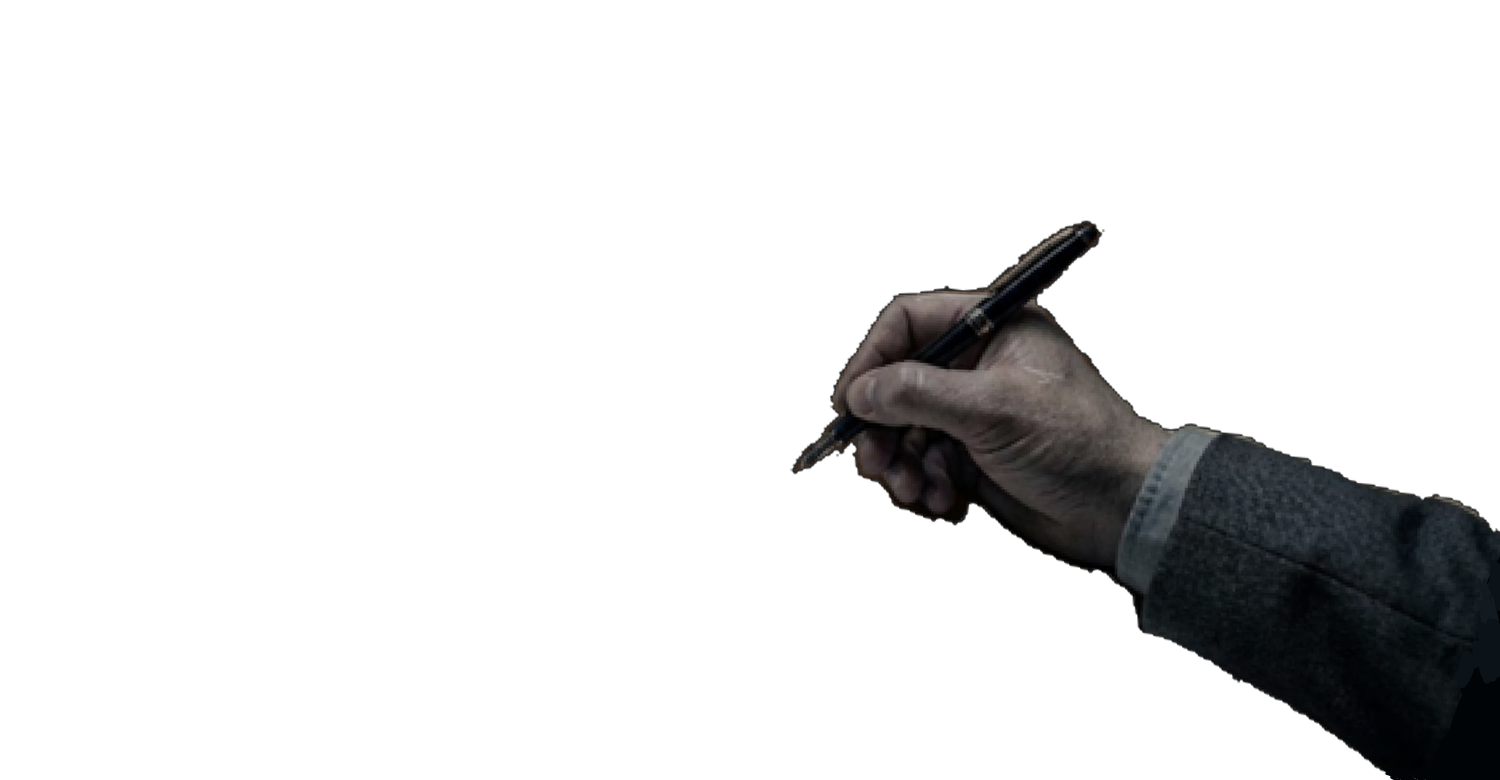
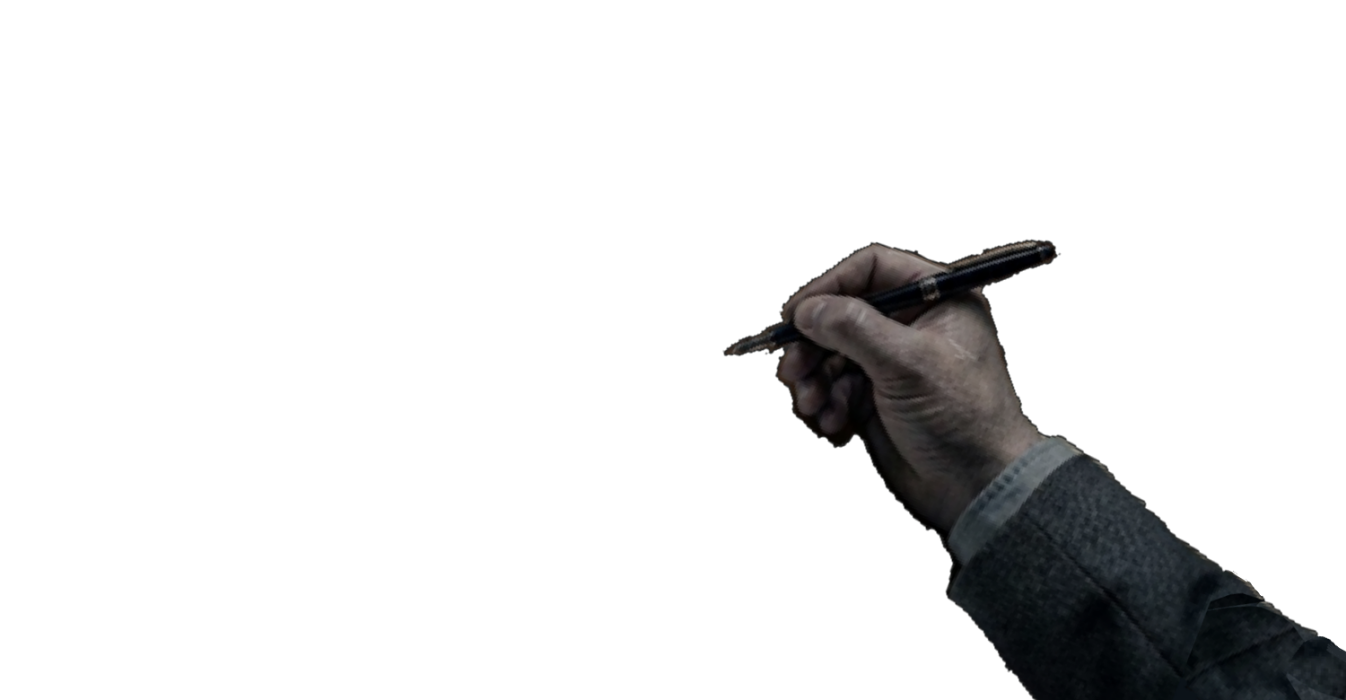
refactor: nuevas imagenes garabato y mano + mejora ux de transicion mano

Changed region(s): [[0.5305, 0.27, 1.0, 1.0]]

diff --git a/src/main/java/vista/juego/PanelTransicionMano.java b/src/main/java/vista/juego/PanelTransicionMano.java
@@ -11,9 +11,9 @@ import java.awt.image.BufferedImage;
 
 public class PanelTransicionMano extends JPanel {
 
-    private static final int DURACION_ENTRADA_MS = 350;
-    private static final int DURACION_GARABATO_MS = 450;
-    private static final int DURACION_SALIDA_MS = 350;
+    private static final int DURACION_ENTRADA_MS = 800;
+    private static final int DURACION_GARABATO_MS = 1500;
+    private static final int DURACION_SALIDA_MS = 800;
     private static final int INTERVALO_TICK_MS = 16;
 
     private enum Fase { INACTIVO, ENTRANDO, GARABATO, SALIENDO }
@@ -31,24 +31,27 @@ public class PanelTransicionMano extends JPanel {
 
     public PanelTransicionMano() {
         setOpaque(false);
+
         CargadorImagen cargador = CargadorImagen.getInstancia();
         this.imagenMano = cargador.cargar("/imagenes/transicion/mano.png");
         this.imagenGarabato = cargador.cargar("/imagenes/transicion/garabato.png");
     }
 
     public void iniciar(Runnable onPuntoMedio, Runnable onTerminado) {
-        if (fase != Fase.INACTIVO) return;
+        if (fase != Fase.INACTIVO) {
+            return;
+        }
 
         this.onPuntoMedio = onPuntoMedio;
         this.onTerminado = onTerminado;
         this.puntoMedioDisparado = false;
-        this.fase = Fase.ENTRANDO;
-        this.progresoMs = 0f;
+
+        fase = Fase.ENTRANDO;
+        progresoMs = 0f;
 
         setVisible(true);
 
         timer = new Timer(INTERVALO_TICK_MS, e -> tick());
-        timer.setRepeats(true);
         timer.start();
     }
 
@@ -63,18 +66,21 @@ public class PanelTransicionMano extends JPanel {
                     dispararPuntoMedio();
                 }
                 break;
+
             case GARABATO:
                 if (progresoMs >= DURACION_GARABATO_MS) {
                     fase = Fase.SALIENDO;
                     progresoMs = 0f;
                 }
                 break;
+
             case SALIENDO:
                 if (progresoMs >= DURACION_SALIDA_MS) {
                     finalizar();
                     return;
                 }
                 break;
+
             case INACTIVO:
                 return;
         }
@@ -85,17 +91,26 @@ public class PanelTransicionMano extends JPanel {
     private void dispararPuntoMedio() {
         if (!puntoMedioDisparado) {
             puntoMedioDisparado = true;
-            if (onPuntoMedio != null) onPuntoMedio.run();
+            if (onPuntoMedio != null) {
+                onPuntoMedio.run();
+            }
         }
     }
 
     private void finalizar() {
-        timer.stop();
+        if (timer != null) {
+            timer.stop();
+        }
+
         fase = Fase.INACTIVO;
         setVisible(false);
+
         Runnable callback = onTerminado;
         onTerminado = null;
-        if (callback != null) callback.run();
+
+        if (callback != null) {
+            callback.run();
+        }
     }
 
     public boolean estaActivo() {
@@ -105,34 +120,49 @@ public class PanelTransicionMano extends JPanel {
     @Override
     protected void paintComponent(Graphics g) {
         super.paintComponent(g);
-        if (fase == Fase.INACTIVO) return;
+
+        if (fase == Fase.INACTIVO) {
+            return;
+        }
 
         Graphics2D g2d = (Graphics2D) g.create();
-        g2d.setRenderingHint(RenderingHints.KEY_INTERPOLATION, RenderingHints.VALUE_INTERPOLATION_BILINEAR);
-        g2d.setRenderingHint(RenderingHints.KEY_ANTIALIASING, RenderingHints.VALUE_ANTIALIAS_ON);
+        g2d.setRenderingHint(RenderingHints.KEY_INTERPOLATION,
+                RenderingHints.VALUE_INTERPOLATION_BILINEAR);
+        g2d.setRenderingHint(RenderingHints.KEY_ANTIALIASING,
+                RenderingHints.VALUE_ANTIALIAS_ON);
 
         int ancho = getWidth();
         int alto = getHeight();
+
         float t;
-        int manoX;
+        int manoY;
 
         switch (fase) {
+
             case ENTRANDO:
+                // Desde abajo hasta su posición final.
                 t = easeOut(progresoMs / DURACION_ENTRADA_MS);
-                manoX = (int) (ancho - t * ancho);
-                dibujarMano(g2d, manoX, ancho, alto);
+                manoY = (int) (alto - t * alto);
+
+                dibujarMano(g2d, 0, manoY, ancho, alto);
                 break;
+
             case GARABATO:
-                dibujarMano(g2d, 0, ancho, alto);
                 if (imagenGarabato != null) {
                     g2d.drawImage(imagenGarabato, 0, 0, ancho, alto, null);
                 }
+
+                dibujarMano(g2d, 0, 0, ancho, alto);
                 break;
+
             case SALIENDO:
+                // Baja hasta desaparecer.
                 t = easeIn(progresoMs / DURACION_SALIDA_MS);
-                manoX = (int) (t * ancho);
-                dibujarMano(g2d, manoX, ancho, alto);
+                manoY = (int) (t * alto);
+
+                dibujarMano(g2d, 0, manoY, ancho, alto);
                 break;
+
             case INACTIVO:
                 break;
         }
@@ -140,12 +170,17 @@ public class PanelTransicionMano extends JPanel {
         g2d.dispose();
     }
 
-    private void dibujarMano(Graphics2D g2d, int x, int ancho, int alto) {
+    private void dibujarMano(Graphics2D g2d, int x, int y, int ancho, int alto) {
         if (imagenMano != null) {
-            g2d.drawImage(imagenMano, x, 0, ancho, alto, null);
+            g2d.drawImage(imagenMano, x, y, ancho, alto, null);
         }
     }
 
-    private float easeOut(float t) { return 1 - (1 - t) * (1 - t); }
-    private float easeIn(float t) { return t * t; }
+    private float easeOut(float t) {
+        return 1f - (1f - t) * (1f - t);
+    }
+
+    private float easeIn(float t) {
+        return t * t;
+    }
 }

diff --git a/src/main/java/MainTest.java b/src/main/java/MainTest.java
@@ -32,18 +32,18 @@ public class MainTest {
             // =========================
             // CUENTA ATRÁS
             // =========================
-            mainVista.getOverlayCuentaAtras().iniciar(() ->
-              System.out.println("Cuenta atrás terminada")
-            );
+            //mainVista.getOverlayCuentaAtras().iniciar(() ->
+             // System.out.println("Cuenta atrás terminada")
+            //);
 
             // =========================
             // TRANSICIÓN MANO
             // =========================
-            // var panelTransicion = mainVista.getPaginaJuego().getPanelTransicion();
-            // panelTransicion.iniciar(
-            //     () -> System.out.println("Punto medio"),
-            //     () -> System.out.println("Transición terminada")
-            // );
+            var panelTransicion = mainVista.getPaginaJuego().getPanelTransicion();
+            panelTransicion.iniciar(
+                 () -> System.out.println("Punto medio"),
+                 () -> System.out.println("Transición terminada")
+             );
 
             // =========================
             // OCULTAR TODOS

diff --git a/src/main/java/vista/paginas/PaginaJuego.java b/src/main/java/vista/paginas/PaginaJuego.java
@@ -36,15 +36,17 @@ public class PaginaJuego extends JPanel {
 
         ImagenFondo fondo = new ImagenFondo("/imagenes/fondos/juego.png");
         fondo.setBounds(0, 0, ANCHO, ALTO);
+        
+        panelTransicion = new PanelTransicionMano();
+        panelTransicion.setBounds(MAPA_X, MAPA_Y, MAPA_ANCHO, MAPA_ALTO);
+        panelTransicion.setVisible(false);
+        add(panelTransicion);
 
         contenedorMapa = new ContenedorMapa(DimensionTablero.ESTANDAR);
         contenedorMapa.setBounds(MAPA_X, MAPA_Y, MAPA_ANCHO, MAPA_ALTO);
         add(contenedorMapa);
 
-        panelTransicion = new PanelTransicionMano();
-        panelTransicion.setBounds(MAPA_X, MAPA_Y, MAPA_ANCHO, MAPA_ALTO);
-        panelTransicion.setVisible(false);
-        add(panelTransicion);
+        
 
         panelHUD = new PanelHUD(HUD_ANCHO, HUD_ALTO);
         panelHUD.setBounds(HUD_X, HUD_Y, HUD_ANCHO, HUD_ALTO);
